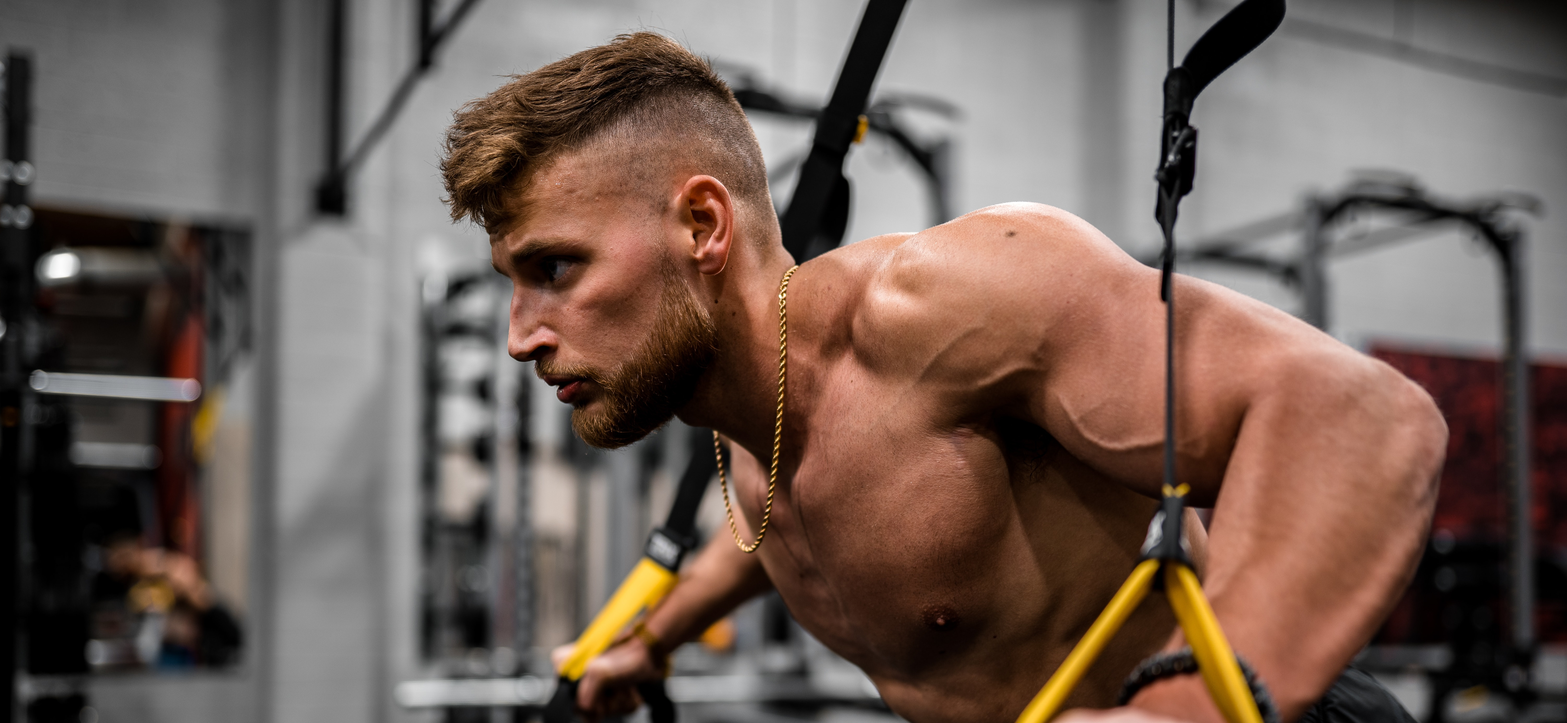
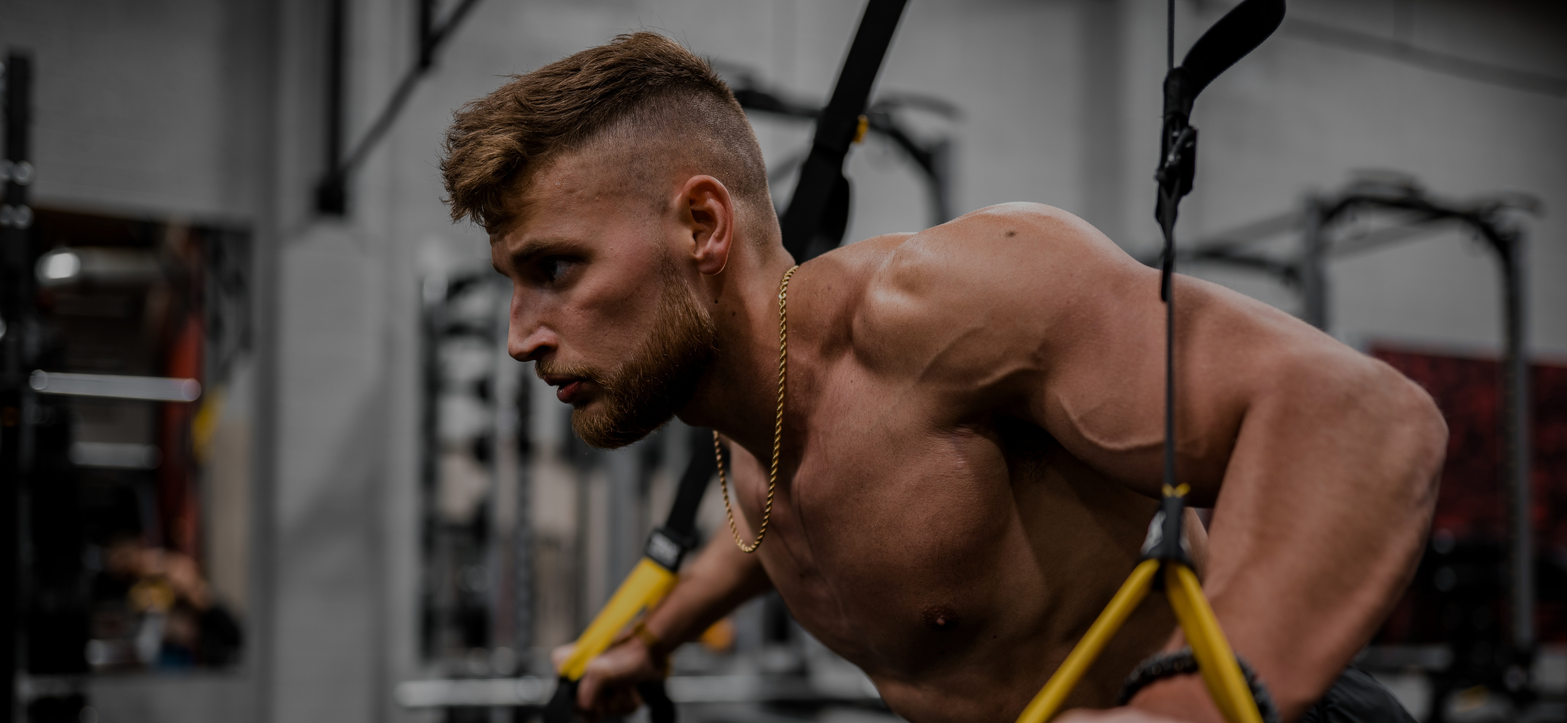
update-galeria

diff --git a/estilos/galeria/galeria.css b/estilos/galeria/galeria.css
@@ -1,0 +1,40 @@
+.galeria-bg{
+  background: url(../../imagens/capa-galeria.jpg);
+  background-repeat: no-repeat;
+  height: 70vh;
+  background-size: cover;
+  background-position: left center;
+}
+
+.galeria-introducao{
+  padding-top: 150px;
+}
+
+.galeria-introducao h1{
+  font-size: 4rem;
+  text-transform: uppercase;
+  text-align: center;
+  letter-spacing: 8px;
+  text-shadow: 6px 6px black;
+}
+
+.galeria-introducao p{
+  font-size: 1.1rem;
+  text-transform: uppercase;
+  padding-top: 120px;
+  text-align: center;
+  letter-spacing: 5px;
+  text-shadow: 4px 4px black;
+}
+
+@media (max-width:800px){
+  .galeria-bg{
+    background-position: center center;
+  }
+
+  .galeria-introducao p{
+    font-size: 1rem;
+    padding-top: 20px;
+
+  }
+}

diff --git a/galeria.html b/galeria.html
@@ -25,8 +25,11 @@
     </div>
   </header>
 
-<main>
-  
+<main class="galeria-bg">
+    <div class="galeria-introducao container">
+      <h1 class="font-audiowide cor-0">Galeria</h1>
+      <p class="font-audiowide cor-0">Aqui você encontra as melhores linhas de maquinários. Somos uma das pioneiras no segmento Fitness, levando a melhor biomecânica em nossos equipamentos, com um rigoroso controle de qualidade.</p>
+    </div>
 </main>
 
   <footer class="container">

diff --git a/estilos/style.css b/estilos/style.css
@@ -16,6 +16,11 @@
 @import "quem-somos/quem-somos-introducao.css";
 @import "quem-somos/quem-somos-dna.css";
 
+
+/*GALERIA*/
+@import "galeria/galeria.css";
+
+
 /*ULTILIDADES */
 @import "ultilidades/tipografia.css";
 @import "ultilidades/cores.css";
